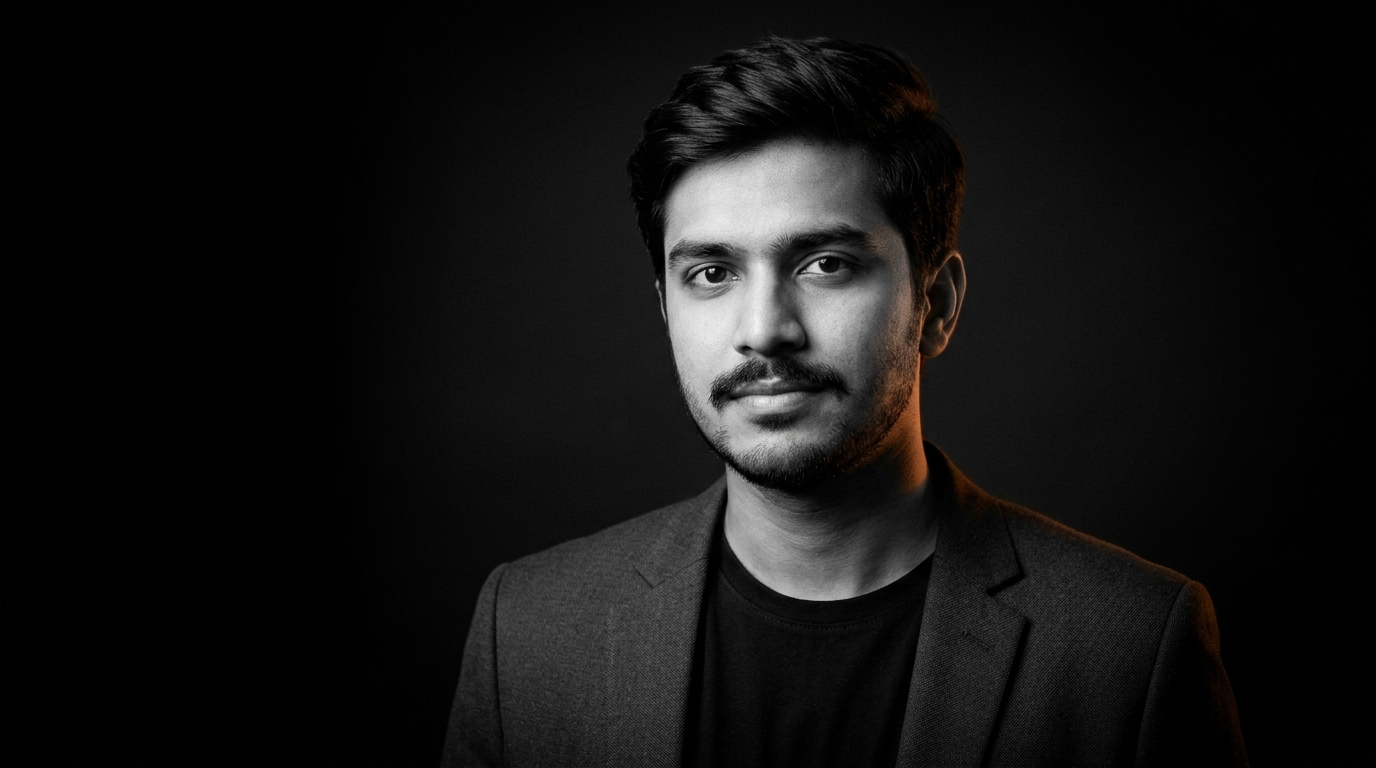
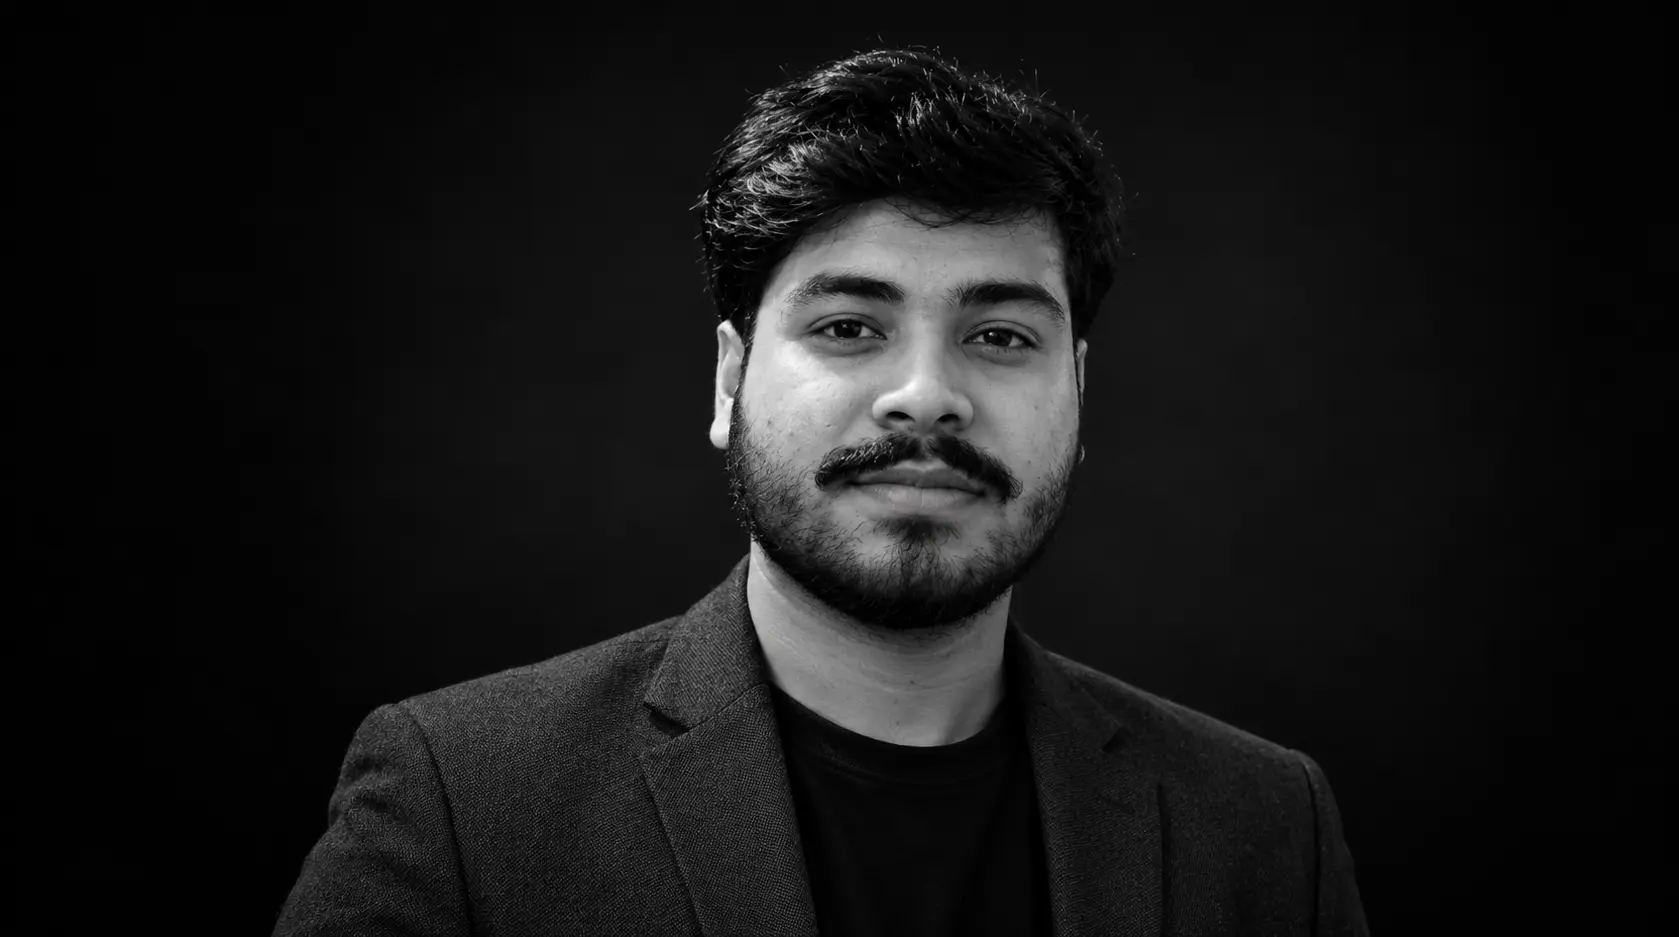
style: replace double slash dividers with editorial dashes and update hero portrait

diff --git a/components/ProjectArtwork.jsx b/components/ProjectArtwork.jsx
@@ -71,7 +71,7 @@ export default function ProjectArtwork({ variant = 'statement', className = '', 
         <line x1="36" y1="120" x2="564" y2="120" stroke="#333333" strokeWidth="1" />
         <line x1="36" y1="600" x2="564" y2="600" stroke="#333333" strokeWidth="1" />
 
-        <text x="56" y="72" fill="#ff630f" fontSize="12" fontFamily="monospace" letterSpacing="0.2em">TR // ARCHITECTURE & MANIFESTO</text>
+        <text x="56" y="72" fill="#ff630f" fontSize="12" fontFamily="monospace" letterSpacing="0.2em">TR — ARCHITECTURE & MANIFESTO</text>
         <text x="56" y="96" fill="#ffffff" fontSize="16" fontFamily="sans-serif" fontWeight="600" letterSpacing="-0.02em">STRUCTURE &amp; EXPRESSION</text>
         <text x="544" y="72" fill="#777777" fontSize="11" fontFamily="monospace" textAnchor="end">SPEC 2026.1</text>
         <circle cx="536" cy="92" r="4" fill="#ff630f" />
@@ -102,7 +102,7 @@ export default function ProjectArtwork({ variant = 'statement', className = '', 
           <text x="240" y="360" fill="#888888" fontSize="10" fontFamily="monospace" textAnchor="middle">CORE::0.998 LATENCY</text>
         </g>
 
-        <text x="56" y="632" fill="#ffffff" fontSize="13" fontFamily="sans-serif" fontWeight="500">CLEAR ARCHITECTURE // RIGOROUS VISUAL SYSTEMS</text>
+        <text x="56" y="632" fill="#ffffff" fontSize="13" fontFamily="sans-serif" fontWeight="500">CLEAR ARCHITECTURE — RIGOROUS VISUAL SYSTEMS</text>
         <text x="56" y="654" fill="#888888" fontSize="11" fontFamily="monospace">DETERMINISTIC DATA • RESILIENT FLOW • ZERO COMPROMISE</text>
         <text x="544" y="644" fill="#ff630f" fontSize="14" fontFamily="monospace" fontWeight="bold" textAnchor="end">[ 01 ]</text>
       </svg>
@@ -124,9 +124,9 @@ export default function ProjectArtwork({ variant = 'statement', className = '', 
         <CardFrame
           idPrefix={idPrefix}
           title="STUDENT E-LIBRARY"
-          kicker="CATALOG ARCHITECTURE // BUILD 2026"
+          kicker="CATALOG ARCHITECTURE — BUILD 2026"
           nodeId="NODE ID: ELIB-01"
-          footerTitle="STUDENT E-LIBRARY // ACADEMIC RESOURCE PLATFORM"
+          footerTitle="STUDENT E-LIBRARY — ACADEMIC RESOURCE PLATFORM"
           footerMeta="LIVE AT: STUDENT-E-LIBRARY.NETLIFY.APP • NETLIFY CI/CD • ACCESSIBLE ARCHITECTURE"
           index="01"
         >
@@ -201,9 +201,9 @@ export default function ProjectArtwork({ variant = 'statement', className = '', 
         <CardFrame
           idPrefix={idPrefix}
           title="TRENDKART"
-          kicker="COMMERCE ENGINE // ADMIN ARCHITECTURE"
+          kicker="COMMERCE ENGINE — ADMIN ARCHITECTURE"
           nodeId="NODE ID: TK-02"
-          footerTitle="TRENDKART // E-COMMERCE ADMINISTRATIVE SYSTEM"
+          footerTitle="TRENDKART — E-COMMERCE ADMINISTRATIVE SYSTEM"
           footerMeta="NEXT.js • NEXTAUTH V5 • CLOUDINARY • RAZORPAY • DISPATCH TRACKING"
           index="02"
         >
@@ -264,9 +264,9 @@ export default function ProjectArtwork({ variant = 'statement', className = '', 
         <CardFrame
           idPrefix={idPrefix}
           title="FOCUSVAULT"
-          kicker="FINANCIAL DISCIPLINE // PWA ENGINE"
+          kicker="FINANCIAL DISCIPLINE — PWA ENGINE"
           nodeId="NODE ID: FV-03"
-          footerTitle="FOCUSVAULT // PROGRESSIVE WEB APPLICATION (PWA)"
+          footerTitle="FOCUSVAULT — PROGRESSIVE WEB APPLICATION (PWA)"
           footerMeta="PRISMA ORM • SQLITE • DAILY BUDGET ENGINE • MINDFUL FRICTION INTERFACE"
           index="03"
         >

diff --git a/components/HeroSection.jsx b/components/HeroSection.jsx
@@ -18,7 +18,7 @@ function renderLetters(word, baseDelay, step = 0.08) {
 export default function HeroSection({ onOpenNav, isNavOpen }) {
   const heroRef = useRef(null);
   const [timeString, setTimeString] = useState('--:--:--');
-  const [gmtString, setGmtString] = useState('GMT+00:00 // LOCAL');
+  const [gmtString, setGmtString] = useState('GMT+00:00 • LOCAL');
   const [isClient, setIsClient] = useState(false);
   const [webglReady, setWebGLReady] = useState(false);
   const [isFaceHovered, setIsFaceHovered] = useState(false);
@@ -41,7 +41,7 @@ export default function HeroSection({ onOpenNav, isNavOpen }) {
       const absMinutes = Math.abs(offsetMinutes);
       const offH = String(Math.floor(absMinutes / 60)).padStart(2, '0');
       const offM = String(absMinutes % 60).padStart(2, '0');
-      setGmtString(`GMT${sign}${offH}:${offM} // LOCAL`);
+      setGmtString(`GMT${sign}${offH}:${offM} • LOCAL`);
     }
 
     updateClock();
@@ -143,7 +143,7 @@ export default function HeroSection({ onOpenNav, isNavOpen }) {
       {/* Navigation Header */}
       <header className="hero-nav container-inset" style={{ animation: 'navDrop 0.5s ease-out forwards' }}>
         <div className="nav-clock" aria-label="Local Time">
-          <div className="nav-clock-gmt">{isClient ? gmtString : 'GMT+00:00 // LOCAL'}</div>
+          <div className="nav-clock-gmt">{isClient ? gmtString : 'GMT+00:00 • LOCAL'}</div>
           <div className="nav-clock-time">{isClient ? timeString : '--:--:--'}</div>
         </div>
 
@@ -206,7 +206,7 @@ export default function HeroSection({ onOpenNav, isNavOpen }) {
           </div>
 
           <div className="subtitle-right">
-            [ PORTFOLIO // SELECTED WORK ]
+            [ PORTFOLIO — SELECTED WORK ]
           </div>
         </div>
 

diff --git a/components/ContactSection.jsx b/components/ContactSection.jsx
@@ -47,7 +47,7 @@ export default function ContactSection() {
       <div className="section-divider" aria-hidden="true" />
 
       <div className="contact-header">
-        <span className="section-kicker">// Contact</span>
+        <span className="section-kicker">Contact</span>
       </div>
 
       <div className="contact-title-wrap">
@@ -132,7 +132,7 @@ export default function ContactSection() {
         </div>
 
         <div className="footer-disclosure">
-          Portfolio — {PERSONA.firstName} {PERSONA.lastName} // {PERSONA.role}.
+          Portfolio — {PERSONA.firstName} {PERSONA.lastName} — {PERSONA.role}.
         </div>
       </footer>
     </section>

diff --git a/components/FeaturedProject.jsx b/components/FeaturedProject.jsx
@@ -73,8 +73,8 @@ export default function FeaturedProject({ onOpenModal }) {
       <div className="section-divider" aria-hidden="true" />
 
       <div className="featured-header">
-        <span className="section-kicker">// Featured Project</span>
-        <span className="featured-header-meta">LIVE WEB APPLICATION // 2026</span>
+        <span className="section-kicker">Featured Project</span>
+        <span className="featured-header-meta">LIVE WEB APPLICATION — 2026</span>
       </div>
 
       <div className="featured-title-wrap">

diff --git a/components/CaseStudyModal.jsx b/components/CaseStudyModal.jsx
@@ -68,7 +68,7 @@ export default function CaseStudyModal({ project, isOpen, onClose, openerRef }) 
         {/* Sticky Toolbar */}
         <div className="modal-sticky-toolbar">
           <span className="modal-toolbar-badge">
-            CASE STUDY // {project.id} — {project.year}
+            CASE STUDY — {project.id} • {project.year}
           </span>
           <button
             type="button"

diff --git a/components/ApproachStatement.jsx b/components/ApproachStatement.jsx
@@ -70,7 +70,7 @@ export default function ApproachStatement() {
       <div className="section-divider" aria-hidden="true" />
 
       <div className="approach-header">
-        <span className="section-kicker">// Approach</span>
+        <span className="section-kicker">Approach</span>
       </div>
 
       <div className="statement-wrapper" aria-label="Engineering & design approach statement">

diff --git a/components/WorkIndex.jsx b/components/WorkIndex.jsx
@@ -37,7 +37,7 @@ export default function WorkIndex({ onOpenModal }) {
       className="work-section container-inset-work"
     >
       <div className="work-header">
-        <span className="section-kicker">// Selected Work</span>
+        <span className="section-kicker">Selected Work</span>
         <span className="work-header-meta">SELECTED BUILDS / 2025–2026</span>
       </div>
 

diff --git a/components/CapabilitiesList.jsx b/components/CapabilitiesList.jsx
@@ -67,7 +67,7 @@ export default function CapabilitiesList() {
         </div>
 
         <div className="capabilities-kicker-wrap">
-          <span className="section-kicker">// CAPABILITIES</span>
+          <span className="section-kicker">CAPABILITIES</span>
         </div>
       </div>
 
